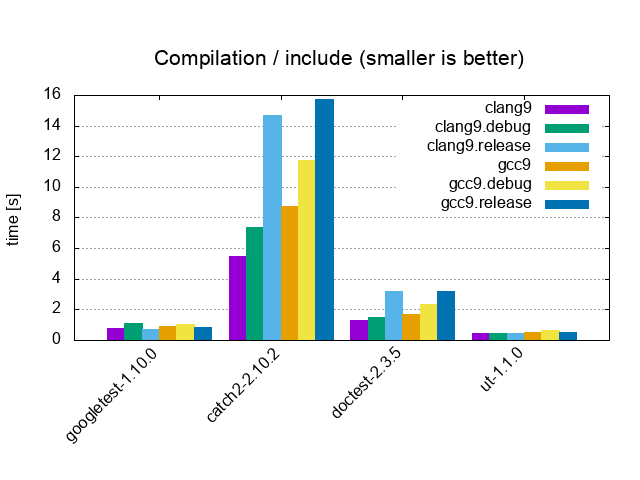
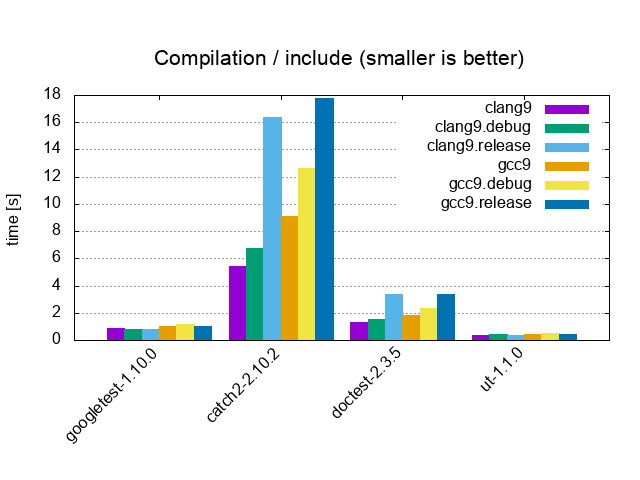
update results

diff --git a/README.md b/README.md
@@ -40,7 +40,7 @@
 
   <tr>
     <td colspan="2" align="center">
-    <a href="https://github.com/cpp-testing/ut-benchmark/tree/master/benchmarks"><b>Suite</b></a> / <i>10'000 tests, 0 asserts, 100 cpp files</i>
+    <a href="https://github.com/cpp-testing/ut-benchmark/tree/master/benchmarks"><b>Suite</b></a> / <i>10'100 tests, 0 asserts, 100 cpp files</i>
     </td>
   </tr>
   <tr>
@@ -50,11 +50,21 @@
 
   <tr>
     <td colspan="2" align="center">
-    <a href="https://github.com/cpp-testing/ut-benchmark/tree/master/benchmarks"><b>Suite+Assert</b></a> / <i>10'000 tests, 20'200 asserts, 100 cpp files</i>
+    <a href="https://github.com/cpp-testing/ut-benchmark/tree/master/benchmarks"><b>Suite+Assert</b></a> / <i>10'100 tests, 40'400 asserts, 100 cpp files</i>
     </td>
   </tr>
   <tr>
     <td><a href="https://raw.githubusercontent.com/cpp-testing/ut-benchmark/master/results/Compilation_suite+assert.png"><img src="https://raw.githubusercontent.com/cpp-testing/ut-benchmark/master/results/Compilation_suite+assert.png"></a></td>
     <td><a href="https://raw.githubusercontent.com/cpp-testing/ut-benchmark/master/results/Execution_suite+assert.png"><img src="https://raw.githubusercontent.com/cpp-testing/ut-benchmark/master/results/Execution_suite+assert.png"></a></td>
+  </tr>
+
+  <tr>
+    <td colspan="2" align="center">
+    <a href="https://github.com/cpp-testing/ut-benchmark/tree/master/benchmarks"><b>Suite+Assert+STL</b></a> / <i>10'100 tests, 20'200 asserts, 100 cpp files</i>
+    </td>
+  </tr>
+  <tr>
+    <td><a href="https://raw.githubusercontent.com/cpp-testing/ut-benchmark/master/results/Compilation_suite+assert+stl.png"><img src="https://raw.githubusercontent.com/cpp-testing/ut-benchmark/master/results/Compilation_suite+assert+stl.png"></a></td>
+    <td><a href="https://raw.githubusercontent.com/cpp-testing/ut-benchmark/master/results/Execution_suite+assert+stl.png"><img src="https://raw.githubusercontent.com/cpp-testing/ut-benchmark/master/results/Execution_suite+assert+stl.png"></a></td>
   </tr>
 </table>
